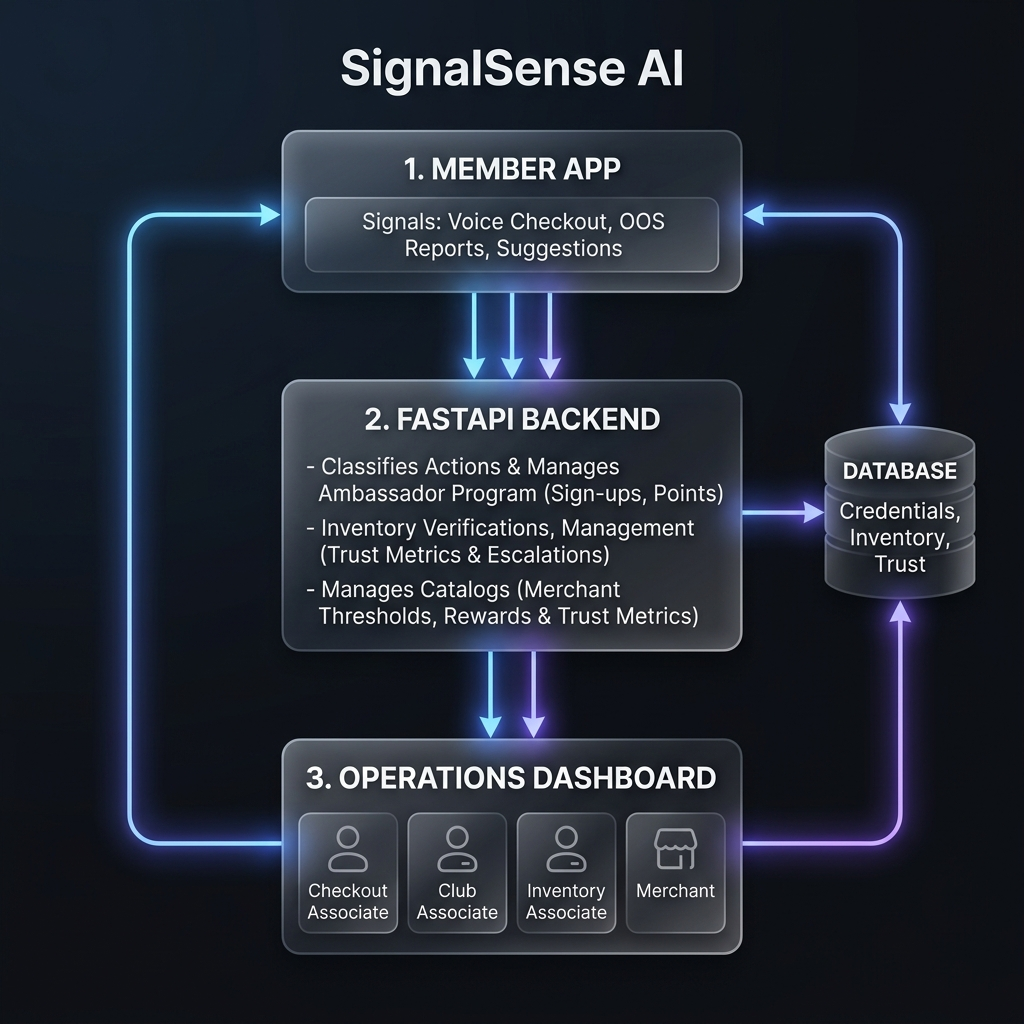
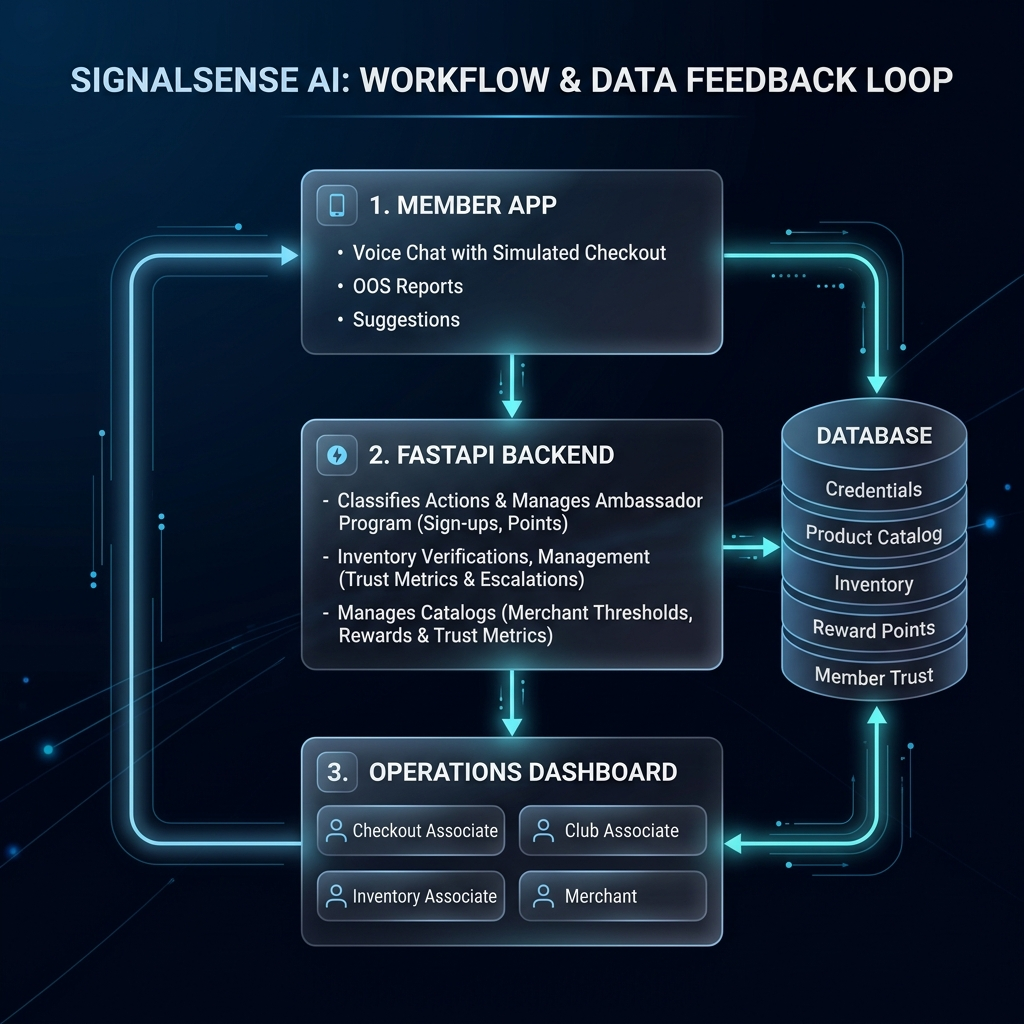
docs: include reward points and product catalog in database cylinder

diff --git a/generate_doc.py b/generate_doc.py
@@ -19,7 +19,7 @@ if not os.path.exists(img_arch_path):
 if not os.path.exists(img_workflow_path):
     img_workflow_path = "/Users/sonneygeorge/.gemini/antigravity-ide/brain/eebc334b-f6c4-4c8f-b9b3-020528b29284/backend_graph_workflow_1783230599635.png"
 if not os.path.exists(img_loop_path):
-    img_loop_path = "/Users/sonneygeorge/.gemini/antigravity-ide/brain/eebc334b-f6c4-4c8f-b9b3-020528b29284/system_signal_flow_loop_v2_1784294766996.png"
+    img_loop_path = "/Users/sonneygeorge/.gemini/antigravity-ide/brain/eebc334b-f6c4-4c8f-b9b3-020528b29284/system_signal_flow_loop_v4_1784297303246.png"
 
 print("Reading and encoding images to Base64...")
 with open(img_arch_path, "rb") as f:

diff --git a/README.md b/README.md
@@ -30,7 +30,7 @@ Traditional retail inventory tracking suffers from latency:
 ## ✨ The Solution
 
 **SignalSense AI** solves these issues through a decoupled, state-machine-driven microservices architecture:
-1. **Live Checkout Assistant:** A real-time voice-interactive checkout overlay. It parses member responses using Chrome's Speech Recognition & Synthesis APIs.
+1. **Voice Chat with Simulated Checkout:** A novel real-time, bi-directional voice-interactive checkout assistant. It processes member spoken responses using Chrome's Web Speech APIs (Speech Recognition & Synthesis) to simulate a conversational retail checkout counter, eliminating the need for physical checkout hardware.
 2. **Ambassador Program Integration:** Automatically checks member profiles. Non-Ambassadors reporting stock-outs are prompted via voice to enroll on the spot to earn reward points.
 3. **Smart Product Suggestions:** If a member reports a missing item that the store doesn't carry (e.g., *Kimchi*), the system automatically routes the request as a new product recommendation instead of an OOS report, letting merchants review it.
 4. **Decoupled Architecture:** Frontend applications communicate with the backend ADK Agent via standalone HTTP APIs, backed by a resilient in-process fallback runner.
@@ -75,7 +75,7 @@ Inside the backend agent, execution follows a strict directed graph defined usin
 
 ## 🔄 Agentic Workflows & State Machine
 
-The Live Checkout Assistant operates on a coordinated state machine:
+The Voice Chat with Simulated Checkout session operates on a coordinated state machine:
 
 ```mermaid
 stateDiagram-v2